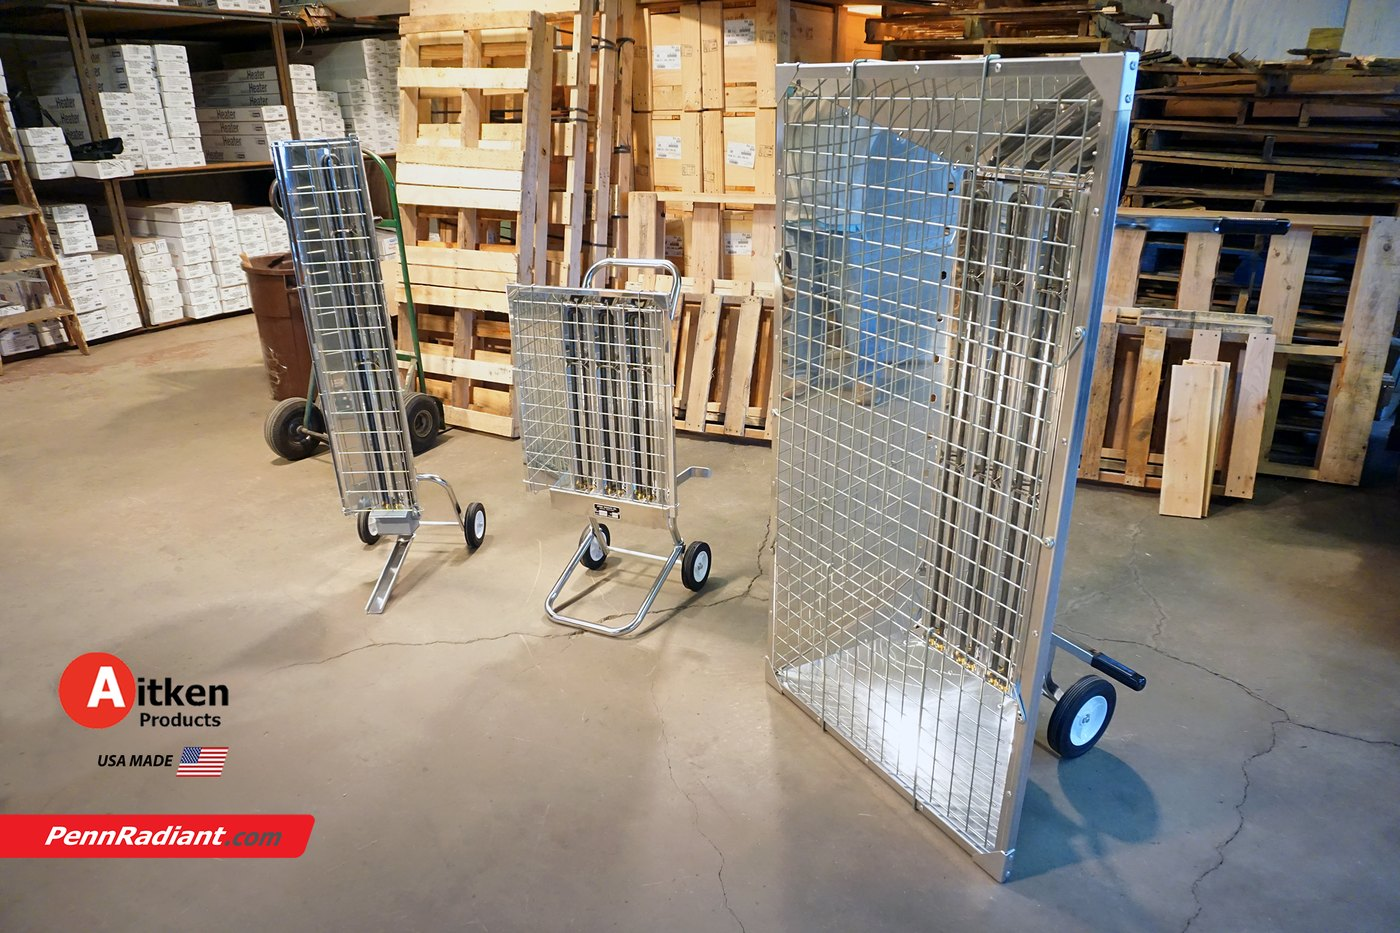
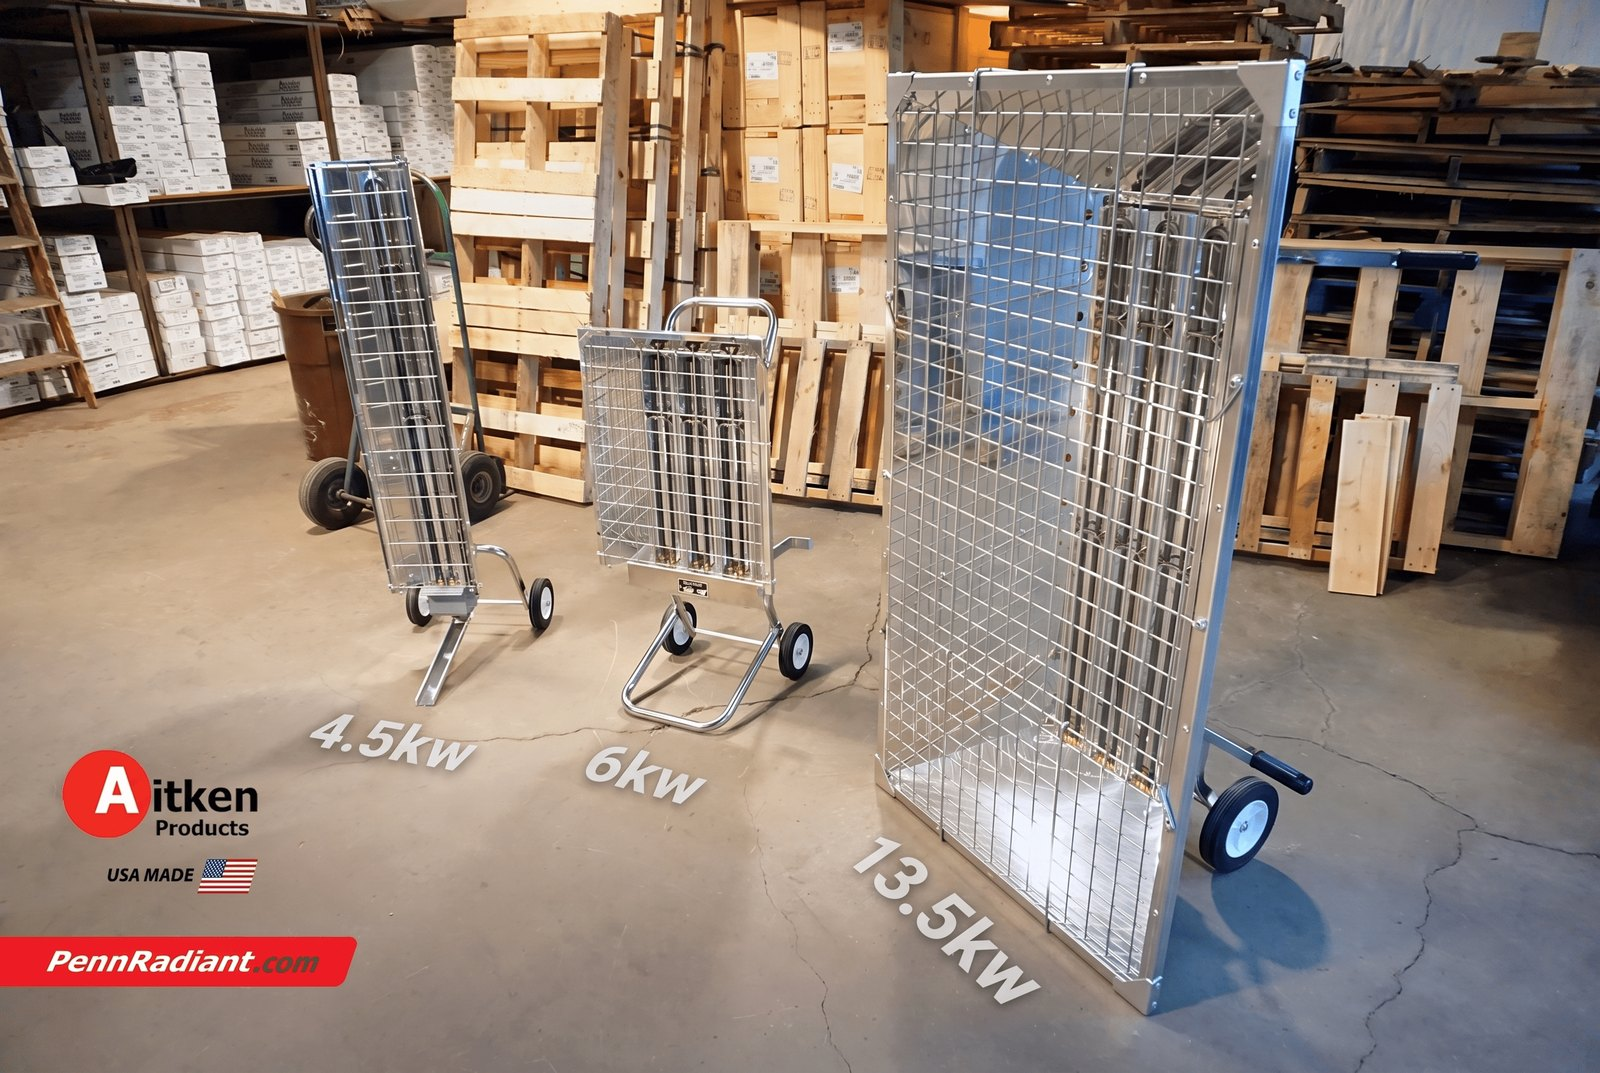
Portable infrared heaters: new Aitken 4.5/6/13.5 kW hero photo

diff --git a/project/website/portable-infrared-heaters.html b/project/website/portable-infrared-heaters.html
@@ -145,7 +145,7 @@ function App(){
             <span className="pih-badge">UL · USA made</span>
           </div>
         </div>
-        <div className="pic"><img src={A+"/products/portable/hero.jpg"} alt="Aitken portable infrared heaters — 4.5 kW, 6 kW and 13.5 kW"/></div>
+        <div className="pic"><img src={A+"/products/portable/hero.jpg?v=2"} alt="Aitken portable infrared heaters — 4.5 kW, 6 kW and 13.5 kW"/></div>
       </div></section>
       <div className="wrap crumb"><a href="index.html">Home</a><I.chevR width="14" height="14"/><a href="electric-heating.html">Electric Heating</a><I.chevR width="14" height="14"/><span>Portable Infrared Heaters</span></div>
 
